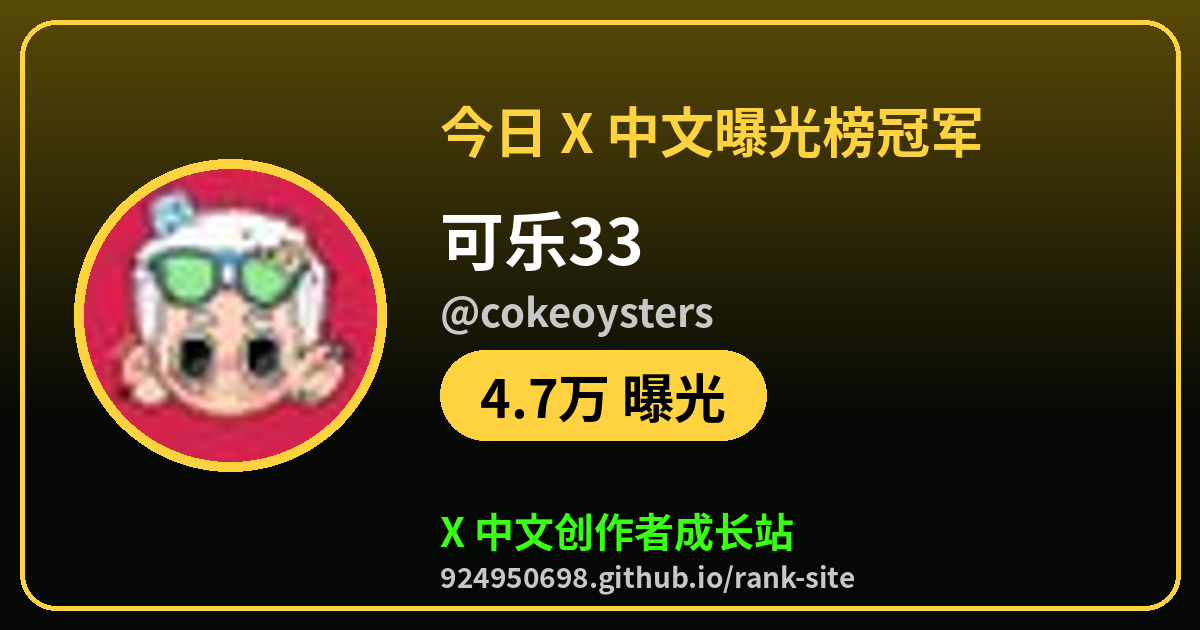
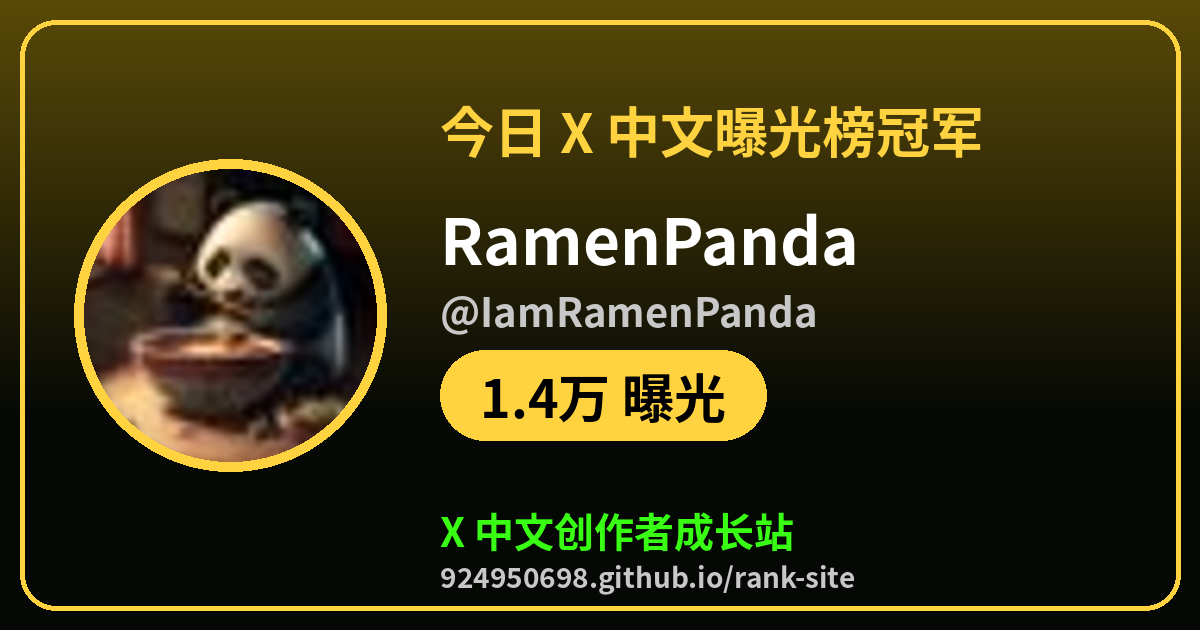
champ: 2026-10-17 17:21 CST

diff --git a/champ/exposure.html b/champ/exposure.html
@@ -1,7 +1,7 @@
 <!doctype html><html lang="zh-CN"><head><meta charset="utf-8"><meta name="viewport" content="width=device-width,initial-scale=1">
-<title>今日 X 中文曝光榜冠军：可乐33（@cokeoysters）</title><meta name="description" content="4.7万 曝光，来看看今天谁在爆，你排第几">
-<meta property="og:type" content="website"><meta property="og:url" content="https://924950698.github.io/rank-site/champ/exposure.html"><meta property="og:title" content="今日 X 中文曝光榜冠军：可乐33（@cokeoysters）"><meta property="og:description" content="4.7万 曝光，来看看今天谁在爆，你排第几">
-<meta property="og:image" content="https://924950698.github.io/rank-site/champ/exposure.png?v=20261017T0803"><meta name="twitter:card" content="summary_large_image"><meta name="twitter:site" content="@tigerr3aue">
-<meta name="twitter:title" content="今日 X 中文曝光榜冠军：可乐33（@cokeoysters）"><meta name="twitter:description" content="4.7万 曝光，来看看今天谁在爆，你排第几"><meta name="twitter:image" content="https://924950698.github.io/rank-site/champ/exposure.png?v=20261017T0803">
-<meta http-equiv="refresh" content="0;url=https://924950698.github.io/rank-site/?champ=cokeoysters&amp;board=exposure#rank"><script>location.replace("https://924950698.github.io/rank-site/?champ=cokeoysters&board=exposure#rank")</script></head>
-<body style="background:#000;color:#fff;font-family:sans-serif;text-align:center;padding:40px"><a href="https://924950698.github.io/rank-site/?champ=cokeoysters&amp;board=exposure#rank" style="color:#39ff14">去 X 中文创作者成长站看冠军卡片</a></body></html>
+<title>今日 X 中文曝光榜冠军：RamenPanda（@IamRamenPanda）</title><meta name="description" content="1.4万 曝光，来看看今天谁在爆，你排第几">
+<meta property="og:type" content="website"><meta property="og:url" content="https://924950698.github.io/rank-site/champ/exposure.html"><meta property="og:title" content="今日 X 中文曝光榜冠军：RamenPanda（@IamRamenPanda）"><meta property="og:description" content="1.4万 曝光，来看看今天谁在爆，你排第几">
+<meta property="og:image" content="https://924950698.github.io/rank-site/champ/exposure.png?v=20261017T0908"><meta name="twitter:card" content="summary_large_image"><meta name="twitter:site" content="@tigerr3aue">
+<meta name="twitter:title" content="今日 X 中文曝光榜冠军：RamenPanda（@IamRamenPanda）"><meta name="twitter:description" content="1.4万 曝光，来看看今天谁在爆，你排第几"><meta name="twitter:image" content="https://924950698.github.io/rank-site/champ/exposure.png?v=20261017T0908">
+<meta http-equiv="refresh" content="0;url=https://924950698.github.io/rank-site/?champ=IamRamenPanda&amp;board=exposure#rank"><script>location.replace("https://924950698.github.io/rank-site/?champ=IamRamenPanda&board=exposure#rank")</script></head>
+<body style="background:#000;color:#fff;font-family:sans-serif;text-align:center;padding:40px"><a href="https://924950698.github.io/rank-site/?champ=IamRamenPanda&amp;board=exposure#rank" style="color:#39ff14">去 X 中文创作者成长站看冠军卡片</a></body></html>

diff --git a/champ/rising.html b/champ/rising.html
@@ -1,7 +1,7 @@
 <!doctype html><html lang="zh-CN"><head><meta charset="utf-8"><meta name="viewport" content="width=device-width,initial-scale=1">
 <title>今日 X 中文新号进步榜冠军：A1terE&amp;o（@abc123953468547）</title><meta name="description" content="+899 粉，来看看今天谁在爆，你排第几">
 <meta property="og:type" content="website"><meta property="og:url" content="https://924950698.github.io/rank-site/champ/rising.html"><meta property="og:title" content="今日 X 中文新号进步榜冠军：A1terE&amp;o（@abc123953468547）"><meta property="og:description" content="+899 粉，来看看今天谁在爆，你排第几">
-<meta property="og:image" content="https://924950698.github.io/rank-site/champ/rising.png?v=20261017T0803"><meta name="twitter:card" content="summary_large_image"><meta name="twitter:site" content="@tigerr3aue">
-<meta name="twitter:title" content="今日 X 中文新号进步榜冠军：A1terE&amp;o（@abc123953468547）"><meta name="twitter:description" content="+899 粉，来看看今天谁在爆，你排第几"><meta name="twitter:image" content="https://924950698.github.io/rank-site/champ/rising.png?v=20261017T0803">
+<meta property="og:image" content="https://924950698.github.io/rank-site/champ/rising.png?v=20261017T0908"><meta name="twitter:card" content="summary_large_image"><meta name="twitter:site" content="@tigerr3aue">
+<meta name="twitter:title" content="今日 X 中文新号进步榜冠军：A1terE&amp;o（@abc123953468547）"><meta name="twitter:description" content="+899 粉，来看看今天谁在爆，你排第几"><meta name="twitter:image" content="https://924950698.github.io/rank-site/champ/rising.png?v=20261017T0908">
 <meta http-equiv="refresh" content="0;url=https://924950698.github.io/rank-site/?champ=abc123953468547&amp;board=rising#rank"><script>location.replace("https://924950698.github.io/rank-site/?champ=abc123953468547&board=rising#rank")</script></head>
 <body style="background:#000;color:#fff;font-family:sans-serif;text-align:center;padding:40px"><a href="https://924950698.github.io/rank-site/?champ=abc123953468547&amp;board=rising#rank" style="color:#39ff14">去 X 中文创作者成长站看冠军卡片</a></body></html>

diff --git a/champ/growth.html b/champ/growth.html
@@ -1,7 +1,7 @@
 <!doctype html><html lang="zh-CN"><head><meta charset="utf-8"><meta name="viewport" content="width=device-width,initial-scale=1">
 <title>今日 X 中文涨粉榜冠军：A1terE&amp;o（@abc123953468547）</title><meta name="description" content="+899 粉，来看看今天谁在爆，你排第几">
 <meta property="og:type" content="website"><meta property="og:url" content="https://924950698.github.io/rank-site/champ/growth.html"><meta property="og:title" content="今日 X 中文涨粉榜冠军：A1terE&amp;o（@abc123953468547）"><meta property="og:description" content="+899 粉，来看看今天谁在爆，你排第几">
-<meta property="og:image" content="https://924950698.github.io/rank-site/champ/growth.png?v=20261017T0803"><meta name="twitter:card" content="summary_large_image"><meta name="twitter:site" content="@tigerr3aue">
-<meta name="twitter:title" content="今日 X 中文涨粉榜冠军：A1terE&amp;o（@abc123953468547）"><meta name="twitter:description" content="+899 粉，来看看今天谁在爆，你排第几"><meta name="twitter:image" content="https://924950698.github.io/rank-site/champ/growth.png?v=20261017T0803">
+<meta property="og:image" content="https://924950698.github.io/rank-site/champ/growth.png?v=20261017T0908"><meta name="twitter:card" content="summary_large_image"><meta name="twitter:site" content="@tigerr3aue">
+<meta name="twitter:title" content="今日 X 中文涨粉榜冠军：A1terE&amp;o（@abc123953468547）"><meta name="twitter:description" content="+899 粉，来看看今天谁在爆，你排第几"><meta name="twitter:image" content="https://924950698.github.io/rank-site/champ/growth.png?v=20261017T0908">
 <meta http-equiv="refresh" content="0;url=https://924950698.github.io/rank-site/?champ=abc123953468547&amp;board=growth#rank"><script>location.replace("https://924950698.github.io/rank-site/?champ=abc123953468547&board=growth#rank")</script></head>
 <body style="background:#000;color:#fff;font-family:sans-serif;text-align:center;padding:40px"><a href="https://924950698.github.io/rank-site/?champ=abc123953468547&amp;board=growth#rank" style="color:#39ff14">去 X 中文创作者成长站看冠军卡片</a></body></html>

diff --git a/champ/comments.html b/champ/comments.html
@@ -1,7 +1,7 @@
 <!doctype html><html lang="zh-CN"><head><meta charset="utf-8"><meta name="viewport" content="width=device-width,initial-scale=1">
 <title>今日 X 中文评论榜冠军：水Lane💧（@VentLane）</title><meta name="description" content="168 评论，来看看今天谁在爆，你排第几">
 <meta property="og:type" content="website"><meta property="og:url" content="https://924950698.github.io/rank-site/champ/comments.html"><meta property="og:title" content="今日 X 中文评论榜冠军：水Lane💧（@VentLane）"><meta property="og:description" content="168 评论，来看看今天谁在爆，你排第几">
-<meta property="og:image" content="https://924950698.github.io/rank-site/champ/comments.png?v=20261017T0803"><meta name="twitter:card" content="summary_large_image"><meta name="twitter:site" content="@tigerr3aue">
-<meta name="twitter:title" content="今日 X 中文评论榜冠军：水Lane💧（@VentLane）"><meta name="twitter:description" content="168 评论，来看看今天谁在爆，你排第几"><meta name="twitter:image" content="https://924950698.github.io/rank-site/champ/comments.png?v=20261017T0803">
+<meta property="og:image" content="https://924950698.github.io/rank-site/champ/comments.png?v=20261017T0908"><meta name="twitter:card" content="summary_large_image"><meta name="twitter:site" content="@tigerr3aue">
+<meta name="twitter:title" content="今日 X 中文评论榜冠军：水Lane💧（@VentLane）"><meta name="twitter:description" content="168 评论，来看看今天谁在爆，你排第几"><meta name="twitter:image" content="https://924950698.github.io/rank-site/champ/comments.png?v=20261017T0908">
 <meta http-equiv="refresh" content="0;url=https://924950698.github.io/rank-site/?champ=VentLane&amp;board=comments#rank"><script>location.replace("https://924950698.github.io/rank-site/?champ=VentLane&board=comments#rank")</script></head>
 <body style="background:#000;color:#fff;font-family:sans-serif;text-align:center;padding:40px"><a href="https://924950698.github.io/rank-site/?champ=VentLane&amp;board=comments#rank" style="color:#39ff14">去 X 中文创作者成长站看冠军卡片</a></body></html>
